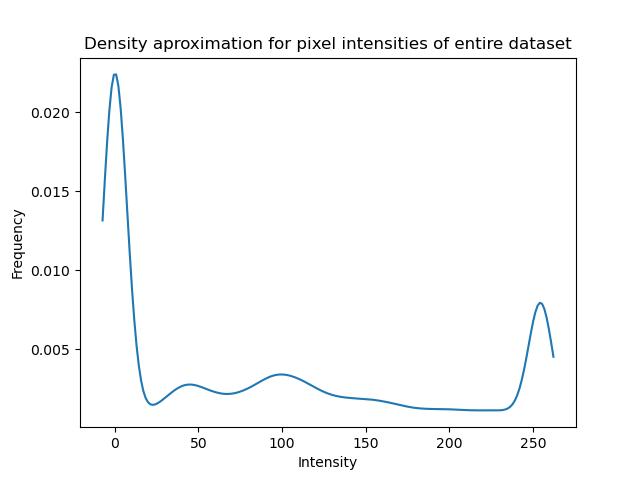
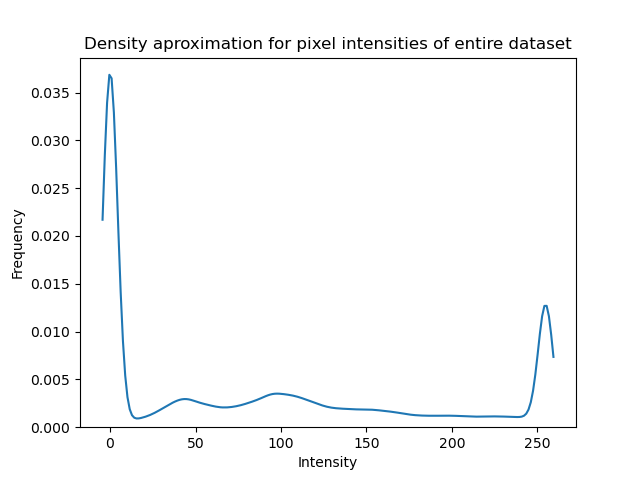
update

diff --git a/code/frequency_analyzer.py b/code/frequency_analyzer.py
@@ -63,8 +63,8 @@ class GalleryAnalyzer:
         sns.histplot(data, x='Intensity', weights='Frequency', bins=bins)
         plt.ylabel('Frequency')
 
-    def createKDEHistogram(self):
+    def createKDEHistogram(self, bw_adjust=0.06):
         """Creates histogram using dataset of pixels from all images in a directory"""
         data = {'Frequency': self.freqs / np.sum(self.freqs), 'Intensity': np.arange(256)}
-        sns.kdeplot(data, x='Intensity', weights='Frequency', bw_adjust=0.1)
+        sns.kdeplot(data, x='Intensity', weights='Frequency', bw_adjust=bw_adjust)
         plt.ylabel("Frequency")
